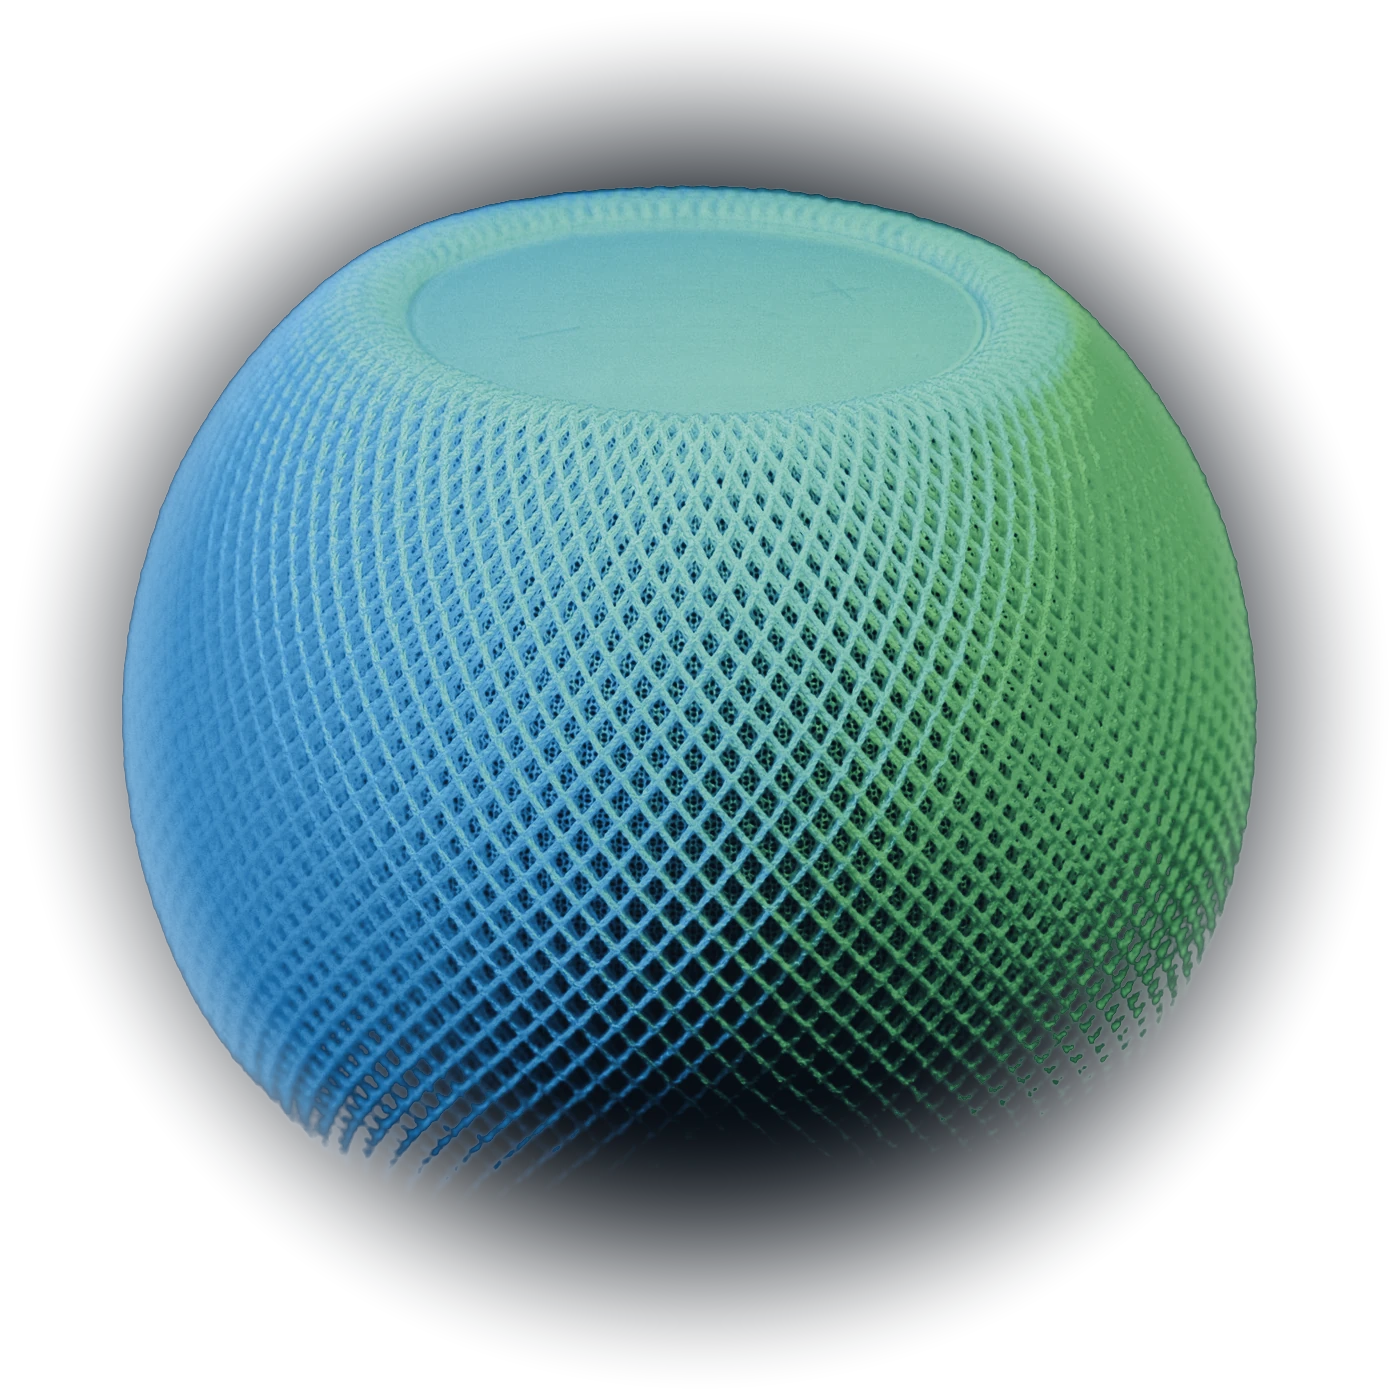
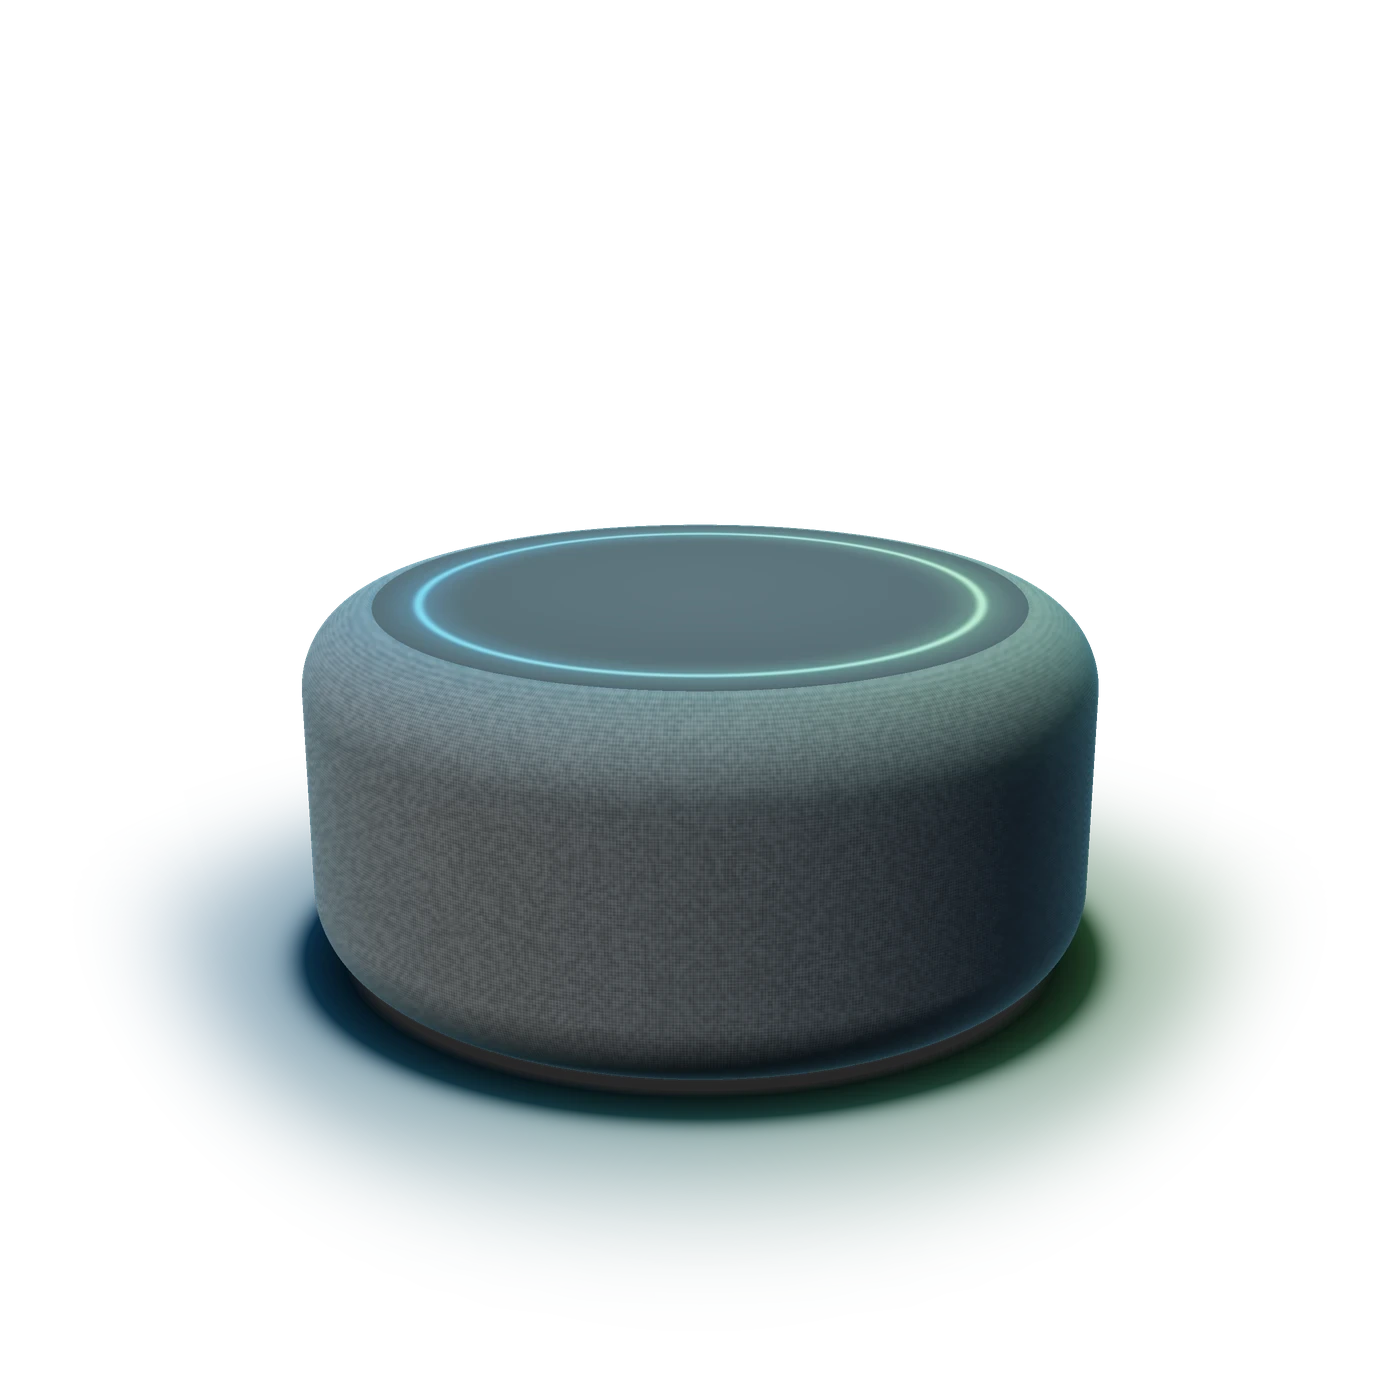
media-rez v2: crafted render of a generic bedside smart speaker replaces the branded product photo
Claude-Session: https://claude.ai/code/session_014388NF7D6xi93usBMmaZxD

diff --git a/_kit/src/media-rez.src.html b/_kit/src/media-rez.src.html
@@ -1078,14 +1078,14 @@ var MOBILE=function(){return innerWidth<861};
 function unmask(s){if(!s)return;(s.masks||[]).forEach(function(m){m.style.overflow="visible";m.style.clipPath="none"})}
 
 
-/*<R:field>*//* ================= HERO FIELD: a real photograph of the subject (HOME_BRIEF update 2b, preference (b)): a smart speaker
-   glowing in the dark (Unsplash photo-1605648916361-9bc12ad6a569 by Ivan Bandura, https://unsplash.com/photos/lZCHy8PLyyo,
-   Unsplash licence). Media Rez delivers CBT-I through a screen-free, conversational smart speaker at the bedside; its own
-   logo is a striped sphere. The photo is cropped square on the speaker, re-graded by luminance from the page ink through
-   the logo's blue to its green (tonal depth kept; see hero.py), and feathered radially into its own black ground, so no
-   rectangle edge exists at any width (DJ/DP). It breathes slowly (a Ken Burns drift) with no pointer response (CZ), sits
-   whole and centred in the open area right of the text at ~72% of the width (DO/DP), with an ink wash over the text side
-   (DI). On phones it sits in the top band and fades into the ink above the text (CW). ================= */
+/*<R:field>*//* ================= HERO FIELD: a crafted render of the product (HOME_BRIEF update 2b, preference (c); coordinator review
+   v2): a generic, unbranded bedside smart speaker, the device class Media Rez delivers CBT-I through (NIH RePORTER 11348878:
+   "a screen-free, conversational, AI-driven smart speaker, custom lighting"). A low fabric-wrapped puck with a matte cap and
+   a thin status light ring running from the logo's blue to its green, on a dark surface that catches the ring's glow.
+   Ray-marched in render.py; the ground is fully transparent (alpha 0 at every image edge), so no box edge exists at any
+   width (DJ/DP). It breathes slowly with no pointer response (CZ), sits whole and centred in the open area right of the
+   text at ~72% of the width, well clear of the H1 (DO/DP), with an ink wash over the text side (DI). On phones it sits in
+   the top band and fades into the ink above the text (CW). ================= */
 var field=(function(){
   var cv=$("#field"),c=cv.getContext("2d"),dpr=1,w=0,h=0,running=false,raf=0,t0=performance.now(),shown=false;
   var IN={v:1},dim=1,dimT=1,SP={v:0},G=null,img=new Image(),ok=false;
@@ -1096,8 +1096,8 @@ var field=(function(){
     var side=Math.max(Math.min(72,Math.max(16,w*.042)),(w-(w>=1800?1600:1320))/2),cw=w-2*side,mob=w<861;
     var U=mob?Math.min(h*.5,w*1.06):h;
     /* the speaker: whole in frame, centred in the open area right of the text */
-    var d=mob?Math.min((U-80)*.72,cw*.7):Math.min(h*.74,cw*.52);
-    var kx=mob?w*.5:side+cw*.73,ky=mob?70+(U-70)*.33:h*.555;
+    var d=mob?Math.min((U-40)*.9,cw*.95):Math.min(h*.94,cw*.6);
+    var kx=mob?w*.5:side+cw*.73,ky=mob?54+(U-54)*.3:h*.5;
     return {mob:mob,side:side,cw:cw,U:U,ih:d,iw:d,kx:kx,ky:ky,bh:mob?U:h};
   }
   function size(){dpr=Math.min(window.devicePixelRatio||1,2);w=document.documentElement.clientWidth||innerWidth;h=innerHeight;cv.width=Math.round(w*dpr);cv.height=Math.round(h*dpr);G=geo();if(!running)frame(true)}
@@ -1118,8 +1118,8 @@ var field=(function(){
       ag.addColorStop(0,"rgba(22,58,74,"+(.5*e).toFixed(3)+")");ag.addColorStop(.5,"rgba(14,30,40,"+(.3*e).toFixed(3)+")");ag.addColorStop(1,"rgba(10,17,24,0)");
       c.fillStyle=ag;c.fillRect(0,0,w,h);
       c.globalAlpha=e;c.drawImage(img,x,y,dw,dh);
-      /* a faint cool light moving slowly across the speaker, as if it were talking */
-      var pu=.5+.5*Math.sin(t*Math.PI*2/13),px=x+dw*(.34+.3*pu),py=y+dh*.36,pr=dw*.3;
+      /* a faint glow breathing over the status ring, as if the speaker were talking */
+      var pu=.5+.5*Math.sin(t*Math.PI*2/13),px=x+dw*.5,py=y+dh*.44,pr=dw*.26;
       var rg=c.createRadialGradient(px,py,0,px,py,pr);rg.addColorStop(0,"rgba(196,236,226,"+(.035+.035*pu).toFixed(3)+")");rg.addColorStop(1,"rgba(196,236,226,0)");
       c.fillStyle=rg;c.fillRect(px-pr,py-pr,pr*2,pr*2);c.globalAlpha=1;
       if(!G.mob){

diff --git a/media-rez/index.html b/media-rez/index.html
@@ -1642,14 +1642,14 @@ var MOBILE=function(){return innerWidth<861};
 function unmask(s){if(!s)return;(s.masks||[]).forEach(function(m){m.style.overflow="visible";m.style.clipPath="none"})}
 
 
-/*<R:field>*//* ================= HERO FIELD: a real photograph of the subject (HOME_BRIEF update 2b, preference (b)): a smart speaker
-   glowing in the dark (Unsplash photo-1605648916361-9bc12ad6a569 by Ivan Bandura, https://unsplash.com/photos/lZCHy8PLyyo,
-   Unsplash licence). Media Rez delivers CBT-I through a screen-free, conversational smart speaker at the bedside; its own
-   logo is a striped sphere. The photo is cropped square on the speaker, re-graded by luminance from the page ink through
-   the logo's blue to its green (tonal depth kept; see hero.py), and feathered radially into its own black ground, so no
-   rectangle edge exists at any width (DJ/DP). It breathes slowly (a Ken Burns drift) with no pointer response (CZ), sits
-   whole and centred in the open area right of the text at ~72% of the width (DO/DP), with an ink wash over the text side
-   (DI). On phones it sits in the top band and fades into the ink above the text (CW). ================= */
+/*<R:field>*//* ================= HERO FIELD: a crafted render of the product (HOME_BRIEF update 2b, preference (c); coordinator review
+   v2): a generic, unbranded bedside smart speaker, the device class Media Rez delivers CBT-I through (NIH RePORTER 11348878:
+   "a screen-free, conversational, AI-driven smart speaker, custom lighting"). A low fabric-wrapped puck with a matte cap and
+   a thin status light ring running from the logo's blue to its green, on a dark surface that catches the ring's glow.
+   Ray-marched in render.py; the ground is fully transparent (alpha 0 at every image edge), so no box edge exists at any
+   width (DJ/DP). It breathes slowly with no pointer response (CZ), sits whole and centred in the open area right of the
+   text at ~72% of the width, well clear of the H1 (DO/DP), with an ink wash over the text side (DI). On phones it sits in
+   the top band and fades into the ink above the text (CW). ================= */
 var field=(function(){
   var cv=$("#field"),c=cv.getContext("2d"),dpr=1,w=0,h=0,running=false,raf=0,t0=performance.now(),shown=false;
   var IN={v:1},dim=1,dimT=1,SP={v:0},G=null,img=new Image(),ok=false;
@@ -1660,8 +1660,8 @@ var field=(function(){
     var side=Math.max(Math.min(72,Math.max(16,w*.042)),(w-(w>=1800?1600:1320))/2),cw=w-2*side,mob=w<861;
     var U=mob?Math.min(h*.5,w*1.06):h;
     /* the speaker: whole in frame, centred in the open area right of the text */
-    var d=mob?Math.min((U-80)*.72,cw*.7):Math.min(h*.74,cw*.52);
-    var kx=mob?w*.5:side+cw*.73,ky=mob?70+(U-70)*.33:h*.555;
+    var d=mob?Math.min((U-40)*.9,cw*.95):Math.min(h*.94,cw*.6);
+    var kx=mob?w*.5:side+cw*.73,ky=mob?54+(U-54)*.3:h*.5;
     return {mob:mob,side:side,cw:cw,U:U,ih:d,iw:d,kx:kx,ky:ky,bh:mob?U:h};
   }
   function size(){dpr=Math.min(window.devicePixelRatio||1,2);w=document.documentElement.clientWidth||innerWidth;h=innerHeight;cv.width=Math.round(w*dpr);cv.height=Math.round(h*dpr);G=geo();if(!running)frame(true)}
@@ -1682,8 +1682,8 @@ var field=(function(){
       ag.addColorStop(0,"rgba(22,58,74,"+(.5*e).toFixed(3)+")");ag.addColorStop(.5,"rgba(14,30,40,"+(.3*e).toFixed(3)+")");ag.addColorStop(1,"rgba(10,17,24,0)");
       c.fillStyle=ag;c.fillRect(0,0,w,h);
       c.globalAlpha=e;c.drawImage(img,x,y,dw,dh);
-      /* a faint cool light moving slowly across the speaker, as if it were talking */
-      var pu=.5+.5*Math.sin(t*Math.PI*2/13),px=x+dw*(.34+.3*pu),py=y+dh*.36,pr=dw*.3;
+      /* a faint glow breathing over the status ring, as if the speaker were talking */
+      var pu=.5+.5*Math.sin(t*Math.PI*2/13),px=x+dw*.5,py=y+dh*.44,pr=dw*.26;
       var rg=c.createRadialGradient(px,py,0,px,py,pr);rg.addColorStop(0,"rgba(196,236,226,"+(.035+.035*pu).toFixed(3)+")");rg.addColorStop(1,"rgba(196,236,226,0)");
       c.fillStyle=rg;c.fillRect(px-pr,py-pr,pr*2,pr*2);c.globalAlpha=1;
       if(!G.mob){

diff --git a/_kit/home/media-rez/field.js b/_kit/home/media-rez/field.js
@@ -1,11 +1,11 @@
-/* ================= HERO FIELD: a real photograph of the subject (HOME_BRIEF update 2b, preference (b)): a smart speaker
-   glowing in the dark (Unsplash photo-1605648916361-9bc12ad6a569 by Ivan Bandura, https://unsplash.com/photos/lZCHy8PLyyo,
-   Unsplash licence). Media Rez delivers CBT-I through a screen-free, conversational smart speaker at the bedside; its own
-   logo is a striped sphere. The photo is cropped square on the speaker, re-graded by luminance from the page ink through
-   the logo's blue to its green (tonal depth kept; see hero.py), and feathered radially into its own black ground, so no
-   rectangle edge exists at any width (DJ/DP). It breathes slowly (a Ken Burns drift) with no pointer response (CZ), sits
-   whole and centred in the open area right of the text at ~72% of the width (DO/DP), with an ink wash over the text side
-   (DI). On phones it sits in the top band and fades into the ink above the text (CW). ================= */
+/* ================= HERO FIELD: a crafted render of the product (HOME_BRIEF update 2b, preference (c); coordinator review
+   v2): a generic, unbranded bedside smart speaker, the device class Media Rez delivers CBT-I through (NIH RePORTER 11348878:
+   "a screen-free, conversational, AI-driven smart speaker, custom lighting"). A low fabric-wrapped puck with a matte cap and
+   a thin status light ring running from the logo's blue to its green, on a dark surface that catches the ring's glow.
+   Ray-marched in render.py; the ground is fully transparent (alpha 0 at every image edge), so no box edge exists at any
+   width (DJ/DP). It breathes slowly with no pointer response (CZ), sits whole and centred in the open area right of the
+   text at ~72% of the width, well clear of the H1 (DO/DP), with an ink wash over the text side (DI). On phones it sits in
+   the top band and fades into the ink above the text (CW). ================= */
 var field=(function(){
   var cv=$("#field"),c=cv.getContext("2d"),dpr=1,w=0,h=0,running=false,raf=0,t0=performance.now(),shown=false;
   var IN={v:1},dim=1,dimT=1,SP={v:0},G=null,img=new Image(),ok=false;
@@ -16,8 +16,8 @@ var field=(function(){
     var side=Math.max(Math.min(72,Math.max(16,w*.042)),(w-(w>=1800?1600:1320))/2),cw=w-2*side,mob=w<861;
     var U=mob?Math.min(h*.5,w*1.06):h;
     /* the speaker: whole in frame, centred in the open area right of the text */
-    var d=mob?Math.min((U-80)*.72,cw*.7):Math.min(h*.74,cw*.52);
-    var kx=mob?w*.5:side+cw*.73,ky=mob?70+(U-70)*.33:h*.555;
+    var d=mob?Math.min((U-40)*.9,cw*.95):Math.min(h*.94,cw*.6);
+    var kx=mob?w*.5:side+cw*.73,ky=mob?54+(U-54)*.3:h*.5;
     return {mob:mob,side:side,cw:cw,U:U,ih:d,iw:d,kx:kx,ky:ky,bh:mob?U:h};
   }
   function size(){dpr=Math.min(window.devicePixelRatio||1,2);w=document.documentElement.clientWidth||innerWidth;h=innerHeight;cv.width=Math.round(w*dpr);cv.height=Math.round(h*dpr);G=geo();if(!running)frame(true)}
@@ -38,8 +38,8 @@ var field=(function(){
       ag.addColorStop(0,"rgba(22,58,74,"+(.5*e).toFixed(3)+")");ag.addColorStop(.5,"rgba(14,30,40,"+(.3*e).toFixed(3)+")");ag.addColorStop(1,"rgba(10,17,24,0)");
       c.fillStyle=ag;c.fillRect(0,0,w,h);
       c.globalAlpha=e;c.drawImage(img,x,y,dw,dh);
-      /* a faint cool light moving slowly across the speaker, as if it were talking */
-      var pu=.5+.5*Math.sin(t*Math.PI*2/13),px=x+dw*(.34+.3*pu),py=y+dh*.36,pr=dw*.3;
+      /* a faint glow breathing over the status ring, as if the speaker were talking */
+      var pu=.5+.5*Math.sin(t*Math.PI*2/13),px=x+dw*.5,py=y+dh*.44,pr=dw*.26;
       var rg=c.createRadialGradient(px,py,0,px,py,pr);rg.addColorStop(0,"rgba(196,236,226,"+(.035+.035*pu).toFixed(3)+")");rg.addColorStop(1,"rgba(196,236,226,0)");
       c.fillStyle=rg;c.fillRect(px-pr,py-pr,pr*2,pr*2);c.globalAlpha=1;
       if(!G.mob){

diff --git a/_kit/home/media-rez/render.py b/_kit/home/media-rez/render.py
@@ -1,0 +1,110 @@
+# Hero v2 (coordinator review): a crafted render of a GENERIC, unbranded bedside smart speaker, the device class Media Rez
+# uses to deliver CBT-I (NIH RePORTER 11348878: "a screen-free, conversational, AI-driven smart speaker, custom lighting").
+# A low fabric-wrapped puck with a soft matte cap and a thin status light ring that runs from the logo's blue to its green,
+# standing on a dark surface that catches the ring's glow. Ray-marched signed-distance render in numpy; output is RGBA with
+# a fully transparent ground (glow and reflection fade to alpha 0), so no box edge can exist (DP/DJ).
+# Usage: python3 render.py hero.webp preview.png
+import sys, numpy as np
+from PIL import Image
+N=2800; SS=2
+R=1.0; HH=0.46; RB=0.2          # puck radius, half height, edge rounding
+CAMD=5.6; EL=np.radians(19)
+ys,xs=np.mgrid[0:N,0:N].astype(np.float32)
+u=(xs-N/2)/(N/2)*1.02; v=-(ys-N/2)/(N/2)*1.02+0.1
+ce=np.array([0,np.sin(EL)*CAMD,np.cos(EL)*CAMD],np.float32)
+fw=-ce/np.linalg.norm(ce); rt=np.cross(fw,[0,1,0]); rt/=np.linalg.norm(rt); up=np.cross(rt,fw)
+f=3.15
+D=fw[None,None,:]*f+u[...,None]*rt[None,None,:]+v[...,None]*up[None,None,:]
+D/=np.linalg.norm(D,axis=-1,keepdims=True)
+def sdf(p):
+    x,y,z=p[...,0],p[...,1],p[...,2]
+    q0=np.sqrt(x*x+z*z)-(R-RB); q1=np.abs(y)-(HH-RB)
+    return np.sqrt(np.maximum(q0,0)**2+np.maximum(q1,0)**2)+np.minimum(np.maximum(q0,q1),0)-RB
+t=np.full((N,N),3.0,np.float32); hit=np.zeros((N,N),bool)
+for i in range(110):
+    p=ce+D*t[...,None]; d=sdf(p)
+    hit|=d<1e-3; t=np.where(hit,t,t+d*0.9)
+P=ce+D*t[...,None]
+e=1e-3
+def grad(p):
+    g=np.zeros_like(p)
+    for k in range(3):
+        o=np.zeros(3,np.float32); o[k]=e
+        g[...,k]=sdf(p+o)-sdf(p-o)
+    return g/np.linalg.norm(g,axis=-1,keepdims=True)
+Nn=grad(P)
+x,y,z=P[...,0],P[...,1],P[...,2]
+th=np.arctan2(x,z); rr=np.sqrt(x*x+z*z)
+top=(y>HH-RB*0.55)&(rr<R-RB*0.9)
+# fabric weave on the sides and shoulder: two fine crossing threads, as normal bumps and albedo
+FR=420; FY=FR*1.0
+w1=np.sin(th*FR+y*FY); w2=np.sin(th*FR-y*FY)
+weave=(w1*w2)
+rng=np.random.default_rng(3)
+nz=np.asarray(Image.fromarray((rng.random((350,350))*255).astype(np.uint8)).resize((N,N),Image.BICUBIC)).astype(np.float32)/255-.5
+fine=nz
+bump=0.10*weave+0.04*fine
+side=~top
+Tn=np.stack([np.cos(th),np.zeros_like(th),-np.sin(th)],-1)
+Nb=Nn+side[...,None]*(Tn*(0.06*np.cos(th*FR+y*FY)*w2)[...,None]+np.array([0,1,0])*(0.06*np.cos(y*FY+th*FR)*w1)[...,None]*0.5)
+Nb/=np.linalg.norm(Nb,axis=-1,keepdims=True)
+alb=np.where(side,0.2+0.035*weave+0.05*fine,0.13)
+alb=np.stack([alb*0.9,alb*0.97,alb*1.02],-1)
+# lights: soft key from upper left front, cool fill, blue-green rim from behind
+L1=np.array([-0.55,0.75,0.45]);L1/=np.linalg.norm(L1)
+L2=np.array([0.8,0.25,0.35]);L2/=np.linalg.norm(L2)
+L3=np.array([0.3,0.35,-0.9]);L3/=np.linalg.norm(L3)
+def lam(Lv,wrap=0.08): return np.clip((Nb@Lv+wrap)/(1+wrap),0,1)
+col=alb*(lam(L1)[...,None]*np.array([1.0,0.98,0.95])*2.3+lam(L2)[...,None]*np.array([0.45,0.62,0.8])*0.55)
+V=-D
+fres=np.clip(1-np.sum(Nb*V,-1),0,1)**3
+col+=(lam(L3,0.0)*0.7+fres*0.8)[...,None]*np.array([0.3,0.62,0.74])*0.55
+# matte cap: a soft sheen and two faint touch dots
+Hh=(L1+V);Hh/=np.linalg.norm(Hh,axis=-1,keepdims=True)
+spec=np.clip(np.sum(Nb*Hh,-1),0,1)**18
+col+=(top*spec*0.16)[...,None]
+col+=(top*np.clip(1-rr/(R-RB*0.9),0,1)*0.04)[...,None]
+# the status light ring: a thin band just inside the cap's rim, blue at the left running to green at the right
+rad=rr/(R-RB*0.9)
+ringd=np.abs(rad-0.86)
+hue=np.clip(0.5+0.5*np.sin(th),0,1)
+rc=np.stack([0.11+(0.36-0.11)*hue,0.53+(0.78-0.53)*hue,0.86+(0.45-0.86)*hue],-1)
+ring=top*np.exp(-(ringd/0.014)**2)*1.7
+halo=top*np.exp(-(ringd/0.08)**2)*0.28
+col=col+rc*(ring+halo)[...,None]
+# ring light spilling over the shoulder onto the fabric
+shoulder=side&(y>0)
+col+=rc*(shoulder*np.clip((y-0.1)/(HH-0.1),0,1)**3*0.35)[...,None]
+col=np.where(hit[...,None],col,0)
+alpha=hit.astype(np.float32)
+# ground: a dark surface at y=-HH that catches a soft pool of the ring's glow and a dim reflection
+tg=(-HH-ce[1])/D[...,1]
+G=ce+D*tg[...,None]
+gx,gz=G[...,0],G[...,2]
+gr=np.sqrt(gx*gx+gz*gz)
+ground=(~hit)&(tg>0)
+pool=np.exp(-np.maximum(gr-R*0.95,0)**2/0.22)*0.55*np.clip((gr-R*0.9)/0.12,0,1)
+gh=np.clip(0.5+0.5*np.sin(np.arctan2(gx,gz)),0,1)
+gc=np.stack([0.11+(0.36-0.11)*gh,0.53+(0.78-0.53)*gh,0.86+(0.45-0.86)*gh],-1)
+# contact shadow right under the puck
+cs=np.exp(-np.maximum(gr-R*0.98,0)**2/0.006)
+ga=ground*np.clip(pool*0.9+cs*0.85,0,1)
+gcol=gc*(pool*0.55)[...,None]*0+gc*0.5
+gcol=gcol*(pool/(pool+cs*0.7+1e-4))[...,None]
+col=np.where(ground[...,None],gcol,col); alpha=np.where(ground,ga,alpha)
+# tone map and ink grading
+col=1-np.exp(-col*1.25)
+col=np.clip(col,0,1)**(1/1.08)
+ink=np.array([10,17,24])/255.
+rgb=col*255
+# soft edge antialias: 2x box filter by downsampling a supersampled alpha is skipped; blur alpha edge slightly
+im=Image.fromarray(np.dstack([rgb,alpha*255]).astype(np.uint8),'RGBA')
+from PIL import ImageFilter
+im=im.resize((1400,1400),Image.LANCZOS)
+im.save(sys.argv[1],'WEBP',quality=92,method=6)
+bg=Image.new('RGBA',im.size,(10,17,24,255)); bg.alpha_composite(im); bg.convert('RGB').resize((700,700)).save(sys.argv[2])
+# final radial feather so the glow pool reaches alpha 0 well inside every edge
+im=Image.open(sys.argv[1]); A=np.asarray(im).astype(np.float32); n=A.shape[0]
+yy,xx=np.mgrid[0:n,0:n]/(n-1); r=np.sqrt((xx-.5)**2+(yy-.5)**2)/.5
+fe=np.clip((1-r)/.25,0,1); fe=fe*fe*(3-2*fe); A[...,3]*=fe
+Image.fromarray(A.astype(np.uint8),'RGBA').save(sys.argv[1],'WEBP',quality=92,method=6)

diff --git a/_kit/dossiers/media-rez.md b/_kit/dossiers/media-rez.md
@@ -30,10 +30,10 @@
 4. Home page: "We're solving insomnia!" in bright green, polar-bear stock photos, red "Drug-free:/Screen-free:/Hassle-free:" lines; the product is never named.
 5. "Behavior Change" page is pasted NIH text; no team page; no explanation of how the product works.
 
-## Hero
-Unsplash photo-1605648916361-9bc12ad6a569 by Ivan Bandura (https://unsplash.com/photos/lZCHy8PLyyo), a smart speaker glowing on black,
-Unsplash licence. Re-graded to the logo's blue→green; radially feathered into its own black ground. Shown as the device category
-(screen-free smart speaker); copy never names a brand or implies a partnership.
+## Hero (v2, coordinator review)
+v1 used an Unsplash photo of an Apple HomePod mini; replaced because a recognisable product implies an unverified platform or
+partnership. v2 is a crafted render (`_kit/home/media-rez/render.py`, ray-marched SDF in numpy) of a generic, unbranded fabric
+puck speaker with a matte cap and a status light ring in the logo's blue→green, on a transparent ground (alpha 0 at every edge).
 
 ## Palette
 From their logo (green sphere banded blue/black): green #4e9247, blue #1688da, slate #3a5d75 sampled from mediarez.com.
